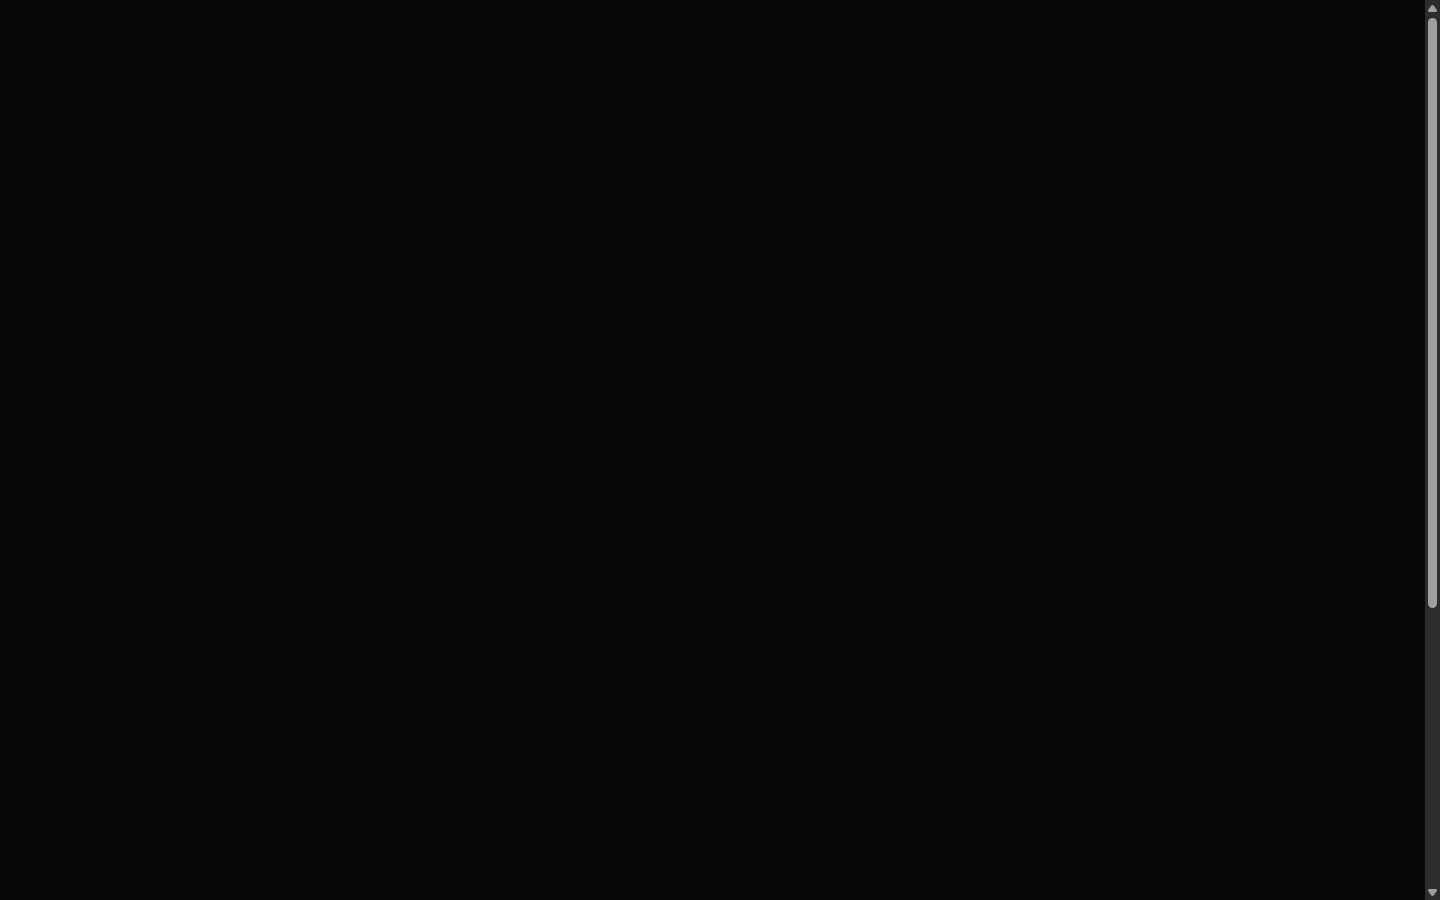
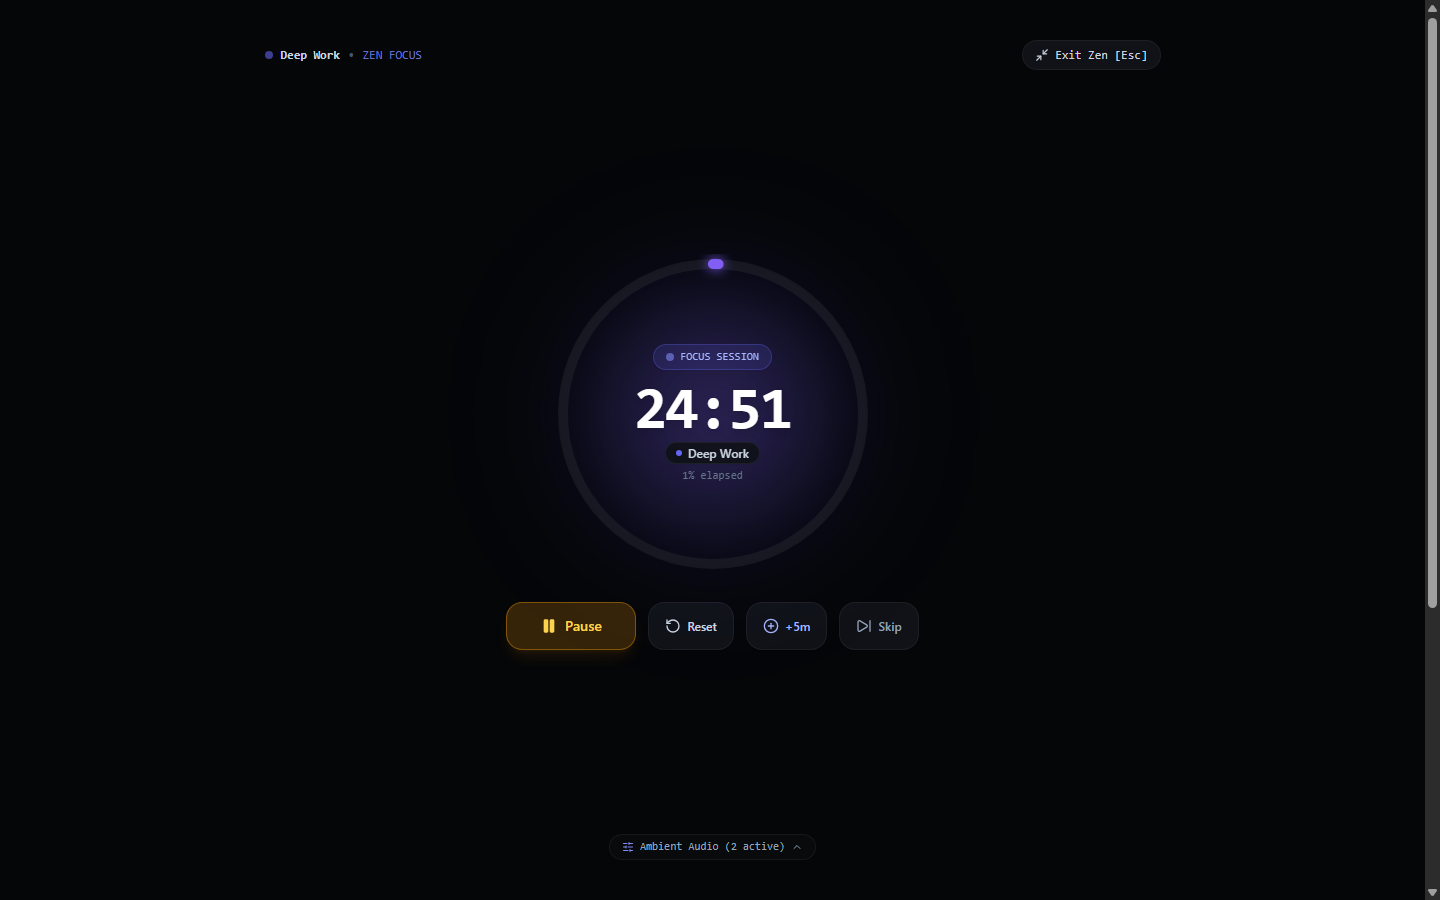
feat: obsidian bento refinements, radial glow accents, zero-CLS tabular figures, and 4-vector QA

diff --git a/src/App.tsx b/src/App.tsx
@@ -271,17 +271,17 @@ export default function App() {
             <span><kbd className="px-1.5 py-0.5 rounded bg-obsidian-850 border border-white/[0.06] text-slate-300">Esc</kbd> Exit Zen</span>
           </div>
         </footer>
-
-        {/* Global Fullscreen Zen Mode Overlay */}
-        <ZenOverlay
-          isOpen={isZenModeOpen}
-          onClose={() => setIsZenModeOpen(false)}
-          timer={timer}
-          soundscape={soundscape}
-          activeTagLabel={activeTag.label}
-          activeTagColor={activeTag.color}
-        />
       </div>
+
+      {/* Global Fullscreen Zen Mode Overlay - Placed outside the fading bento container */}
+      <ZenOverlay
+        isOpen={isZenModeOpen}
+        onClose={() => setIsZenModeOpen(false)}
+        timer={timer}
+        soundscape={soundscape}
+        activeTagLabel={activeTag.label}
+        activeTagColor={activeTag.color}
+      />
     </div>
   );
 }
